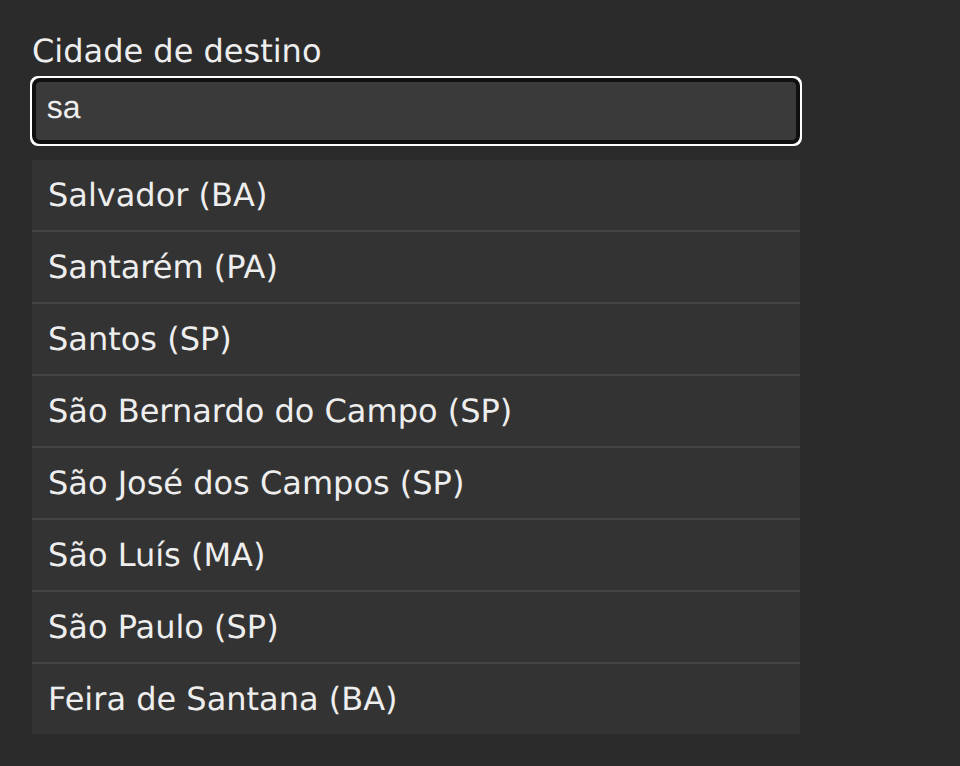
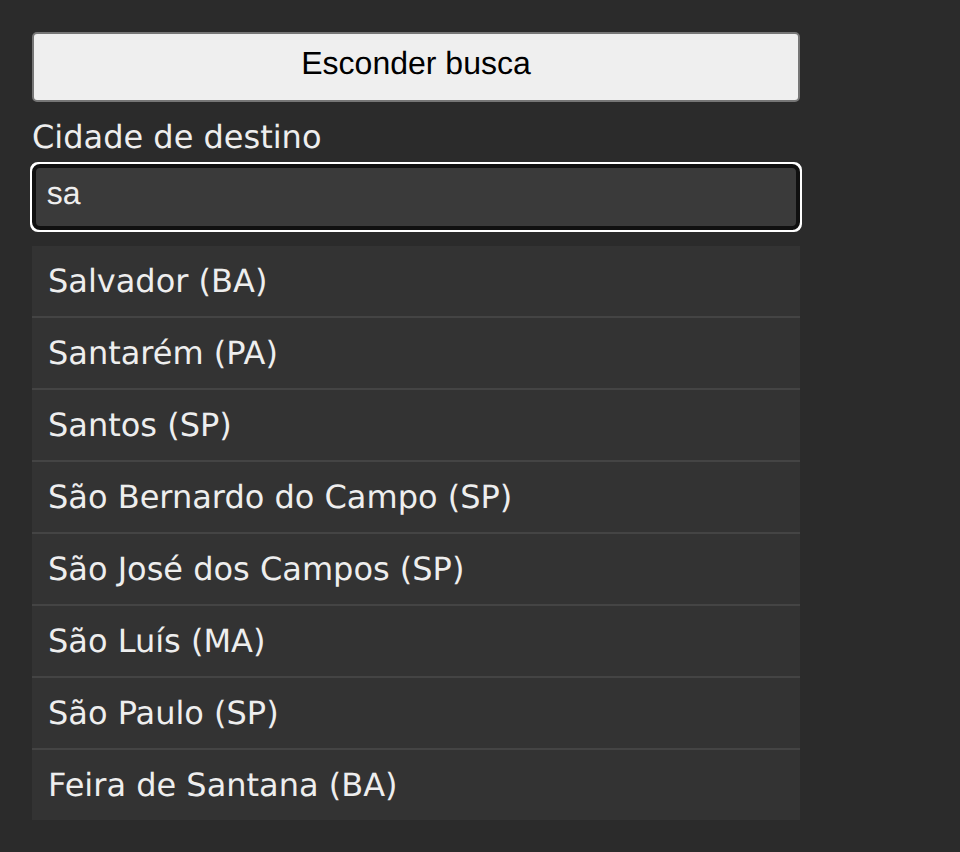
Esconde e mostra a Busca no Web Component com signals
Desde "Leva à Busca as regras comuns da primeira rodada", o teste de
conformidade pede o botão "Esconder busca" e zero requisições abertas
depois dele, e o Web Component com signals ainda abre o
<busca-de-destino> direto no body; o disconnectedCallback descarta os
efeitos, mas nada aborta a requisição em andamento, que seguiria até a
resposta fora da página.

Entra a página, o elemento <busca-com-sugestoes>, como a do Login nesta
tecnologia: o esqueleto em HTML com o botão, o signal visivel que o
clique alterna, o texto do botão escrito num efeito, e a busca criada e
posta na página num efeito, com o onCleanup que a tira quando o signal
fica falso ou a página sai da tela. No createRoot da busca entra o
onCleanup que aborta a requisição, a limpeza que o Solid da Busca
também ganha, como o implementacoes/AGENTS.md pede para o que o Solid
limpa. A montagem é a do Web Component letra por letra, com o <section
class="painel"> no lugar do <main>. A situação já estava num <p> com
role="status" escondido desde a abertura.

npm run conformidade -- busca-com-sugestoes/web-component-signals
passa nas 17 verificações; sem o onCleanup do abort, falha "11
esconder durante a busca cancela a requisição", com uma requisição
aberta. As capturas das sete cenas saem idênticas às do Web Component.

Refs: tcc-v4m7

diff --git a/implementacoes/busca-com-sugestoes/web-component-signals/src/main.ts b/implementacoes/busca-com-sugestoes/web-component-signals/src/main.ts
@@ -4,6 +4,7 @@ import {
   createResource,
   createRoot,
   createSignal,
+  onCleanup,
 } from "solid-js";
 import {
   MENSAGENS,
@@ -16,7 +17,7 @@ import {
 import "../../estilo.css";
 
 const modelo = /* HTML */ `
-  <main class="busca">
+  <section class="painel">
     <label>
       Cidade de destino
       <input
@@ -28,7 +29,7 @@ const modelo = /* HTML */ `
     <p class="situacao" role="status" hidden></p>
     <ul class="sugestoes" hidden></ul>
     <p class="escolha" hidden></p>
-  </main>
+  </section>
 `;
 
 class BuscaDeDestino extends HTMLElement {
@@ -97,6 +98,9 @@ class BuscaDeDestino extends HTMLElement {
         },
       );
 
+      // Sem isto, a requisição continua fora da página.
+      onCleanup(() => controlador?.abort());
+
       const visivel = () => aberta() && termo().length >= MINIMO_DE_LETRAS;
       const mensagem = () => {
         if (!visivel()) return null;
@@ -142,4 +146,42 @@ class BuscaDeDestino extends HTMLElement {
   }
 }
 
+// A página: o botão que tira a busca da página e a põe de volta.
+class BuscaComSugestoes extends HTMLElement {
+  private descartar?: () => void;
+
+  connectedCallback() {
+    this.innerHTML = /* HTML */ `
+      <main class="busca">
+        <button type="button" class="alternar">Esconder busca</button>
+      </main>
+    `;
+    const principal = this.querySelector("main")!;
+    const alternar = this.querySelector<HTMLButtonElement>(".alternar")!;
+
+    const [visivel, setVisivel] = createSignal(true);
+    alternar.addEventListener("click", () => setVisivel(!visivel()));
+
+    this.descartar = createRoot((descartar) => {
+      createEffect(() => {
+        alternar.textContent = visivel() ? "Esconder busca" : "Mostrar busca";
+      });
+      // A busca entra quando o sinal fica verdadeiro, e a limpeza a tira
+      // quando ele fica falso.
+      createEffect(() => {
+        if (!visivel()) return;
+        const busca = document.createElement("busca-de-destino");
+        principal.append(busca);
+        onCleanup(() => busca.remove());
+      });
+      return descartar;
+    });
+  }
+
+  disconnectedCallback() {
+    this.descartar?.();
+  }
+}
+
 customElements.define("busca-de-destino", BuscaDeDestino);
+customElements.define("busca-com-sugestoes", BuscaComSugestoes);

diff --git a/implementacoes/busca-com-sugestoes/web-component-signals/index.html b/implementacoes/busca-com-sugestoes/web-component-signals/index.html
@@ -6,7 +6,7 @@
     <title>Busca com sugestões com Web Component e signals</title>
   </head>
   <body>
-    <busca-de-destino></busca-de-destino>
+    <busca-com-sugestoes></busca-com-sugestoes>
     <script type="module" src="/src/main.ts"></script>
   </body>
 </html>
